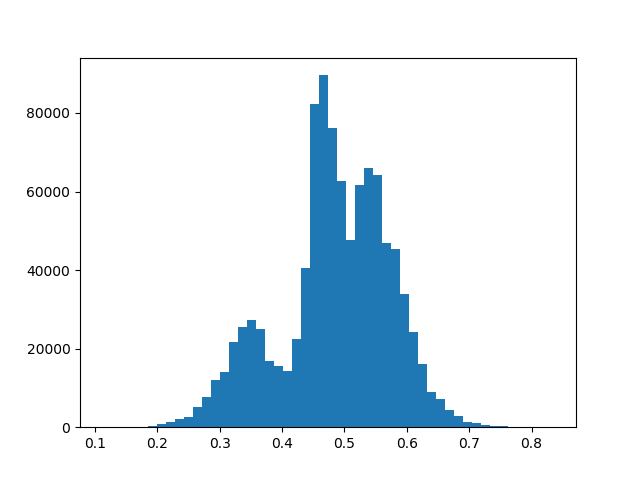
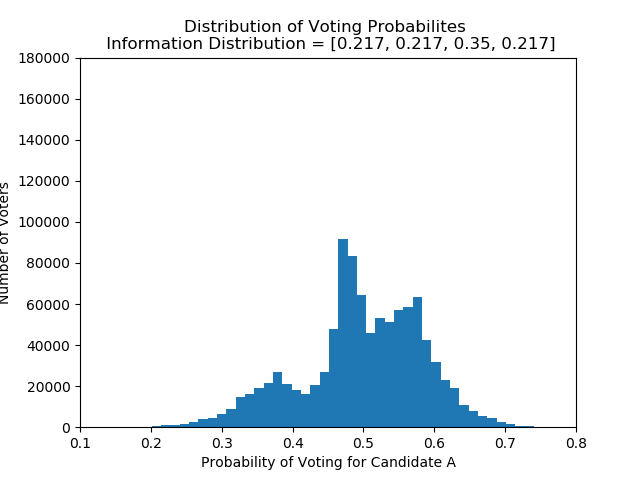
cleanup of scaling for the histograms and added labels

diff --git a/Result/Jobs_SIR_V2/plotDistributions.py b/Result/Jobs_SIR_V2/plotDistributions.py
@@ -6,7 +6,23 @@ import pickle
 
 distributions = pickle.load(open("distributions.pkl", "rb"))
 
+infoDist = [[0.25, 0.25, 0.25, 0.25],
+            [0.233, 0.233, 0.3, 0.233],
+            [0.217, 0.217, 0.35, 0.217],
+            [0.2, 0.2, 0.4, 0.2],
+            [0.183, 0.183, 0.45, 0.183],
+            [0.233, 0.3, 0.233, 0.233],
+            [0.217, 0.35, 0.217, 0.217],
+            [0.2, 0.4, 0.2, 0.2],
+            [0.183, 0.45, 0.183, 0.183]
+            ]
+
 for i in range(len(distributions)) :
     plt.figure(i)
+    plt.xlim(0.1, 0.8)
+    plt.ylim(0, 180000)
+    plt.title("Distribution of Voting Probabilites \n Information Distribution = " + str(infoDist[i]))
+    plt.xlabel("Probability of Voting for Candidate A")
+    plt.ylabel("Number of Voters")
     plt.hist(distributions[i],50)
-    plt.savefig("run" + str(i) + "_V2_distributionPlot.png")
+    plt.savefig("run" + str(i+1) + "_V2_distributionPlot.png")
